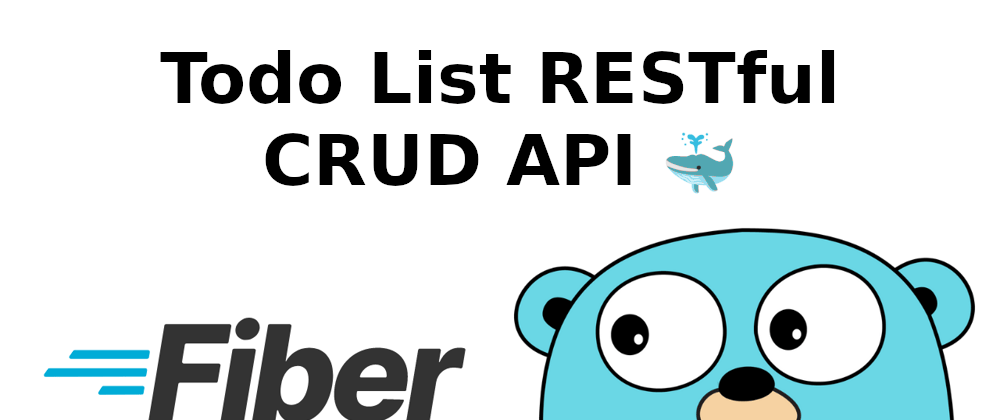
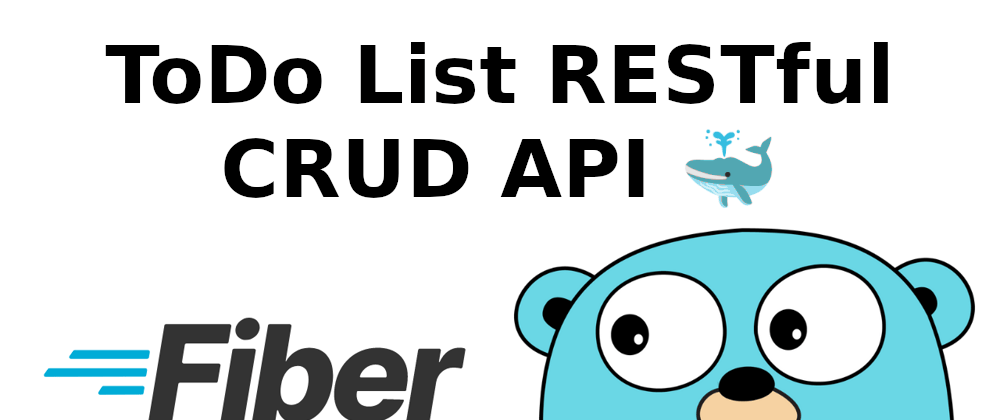
v0.9 (README.md fix 3)

Changed region(s): [[0.093, 0.0929, 0.899, 0.2476], [0.217, 0.3095, 0.775, 0.4952]]

diff --git a/README.md b/README.md
@@ -1,6 +1,6 @@
-# Todo List RESTful CRUD API
+# ToDo List RESTful CRUD API
 
-A secure and efficient RESTful CRUD Todo List application built with Golang, Fiber, and PostgreSQL (via PGX driver), designed with security and usability best practices.
+A secure and efficient RESTful CRUD ToDo List application built with Golang, Fiber, and PostgreSQL (via PGX driver), designed with security and usability best practices.
 
 ![cover](https://github.com/vadimfedulov035/go-todo-api/blob/main/cover.png)
 
